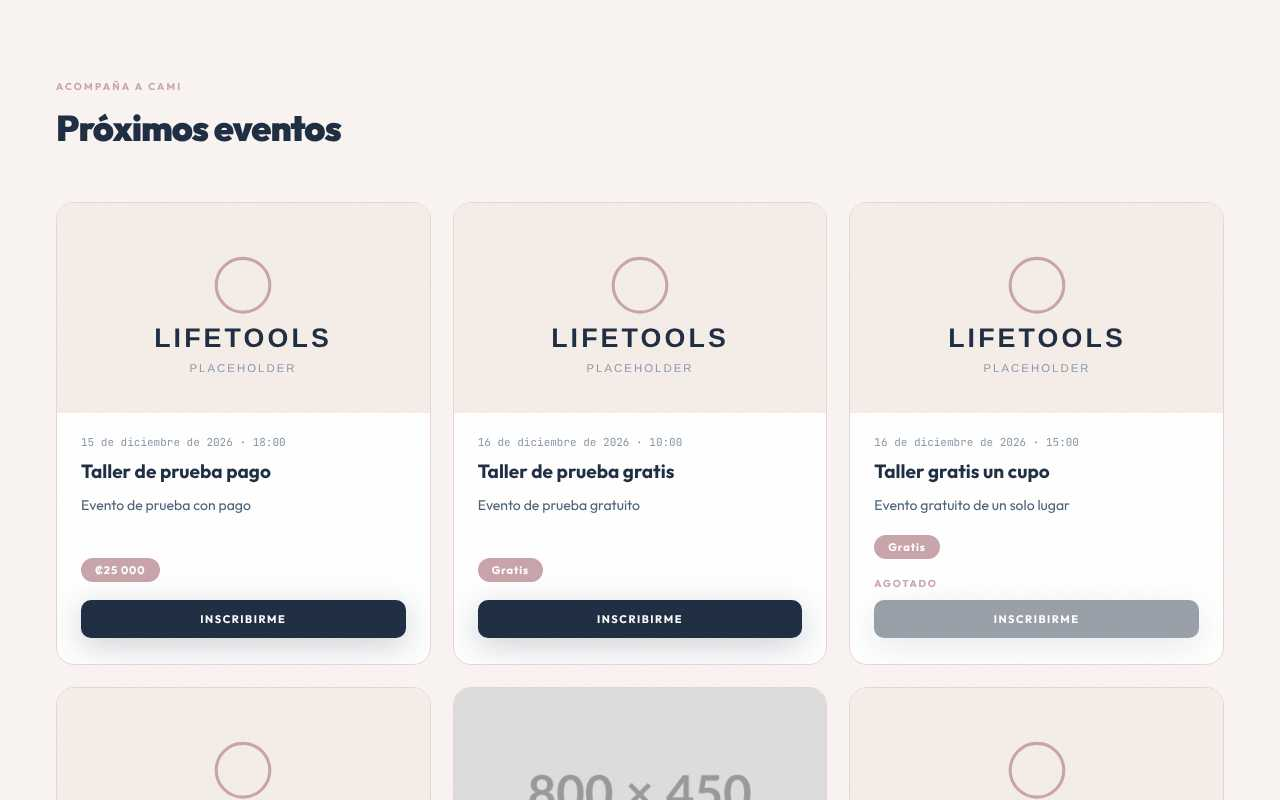
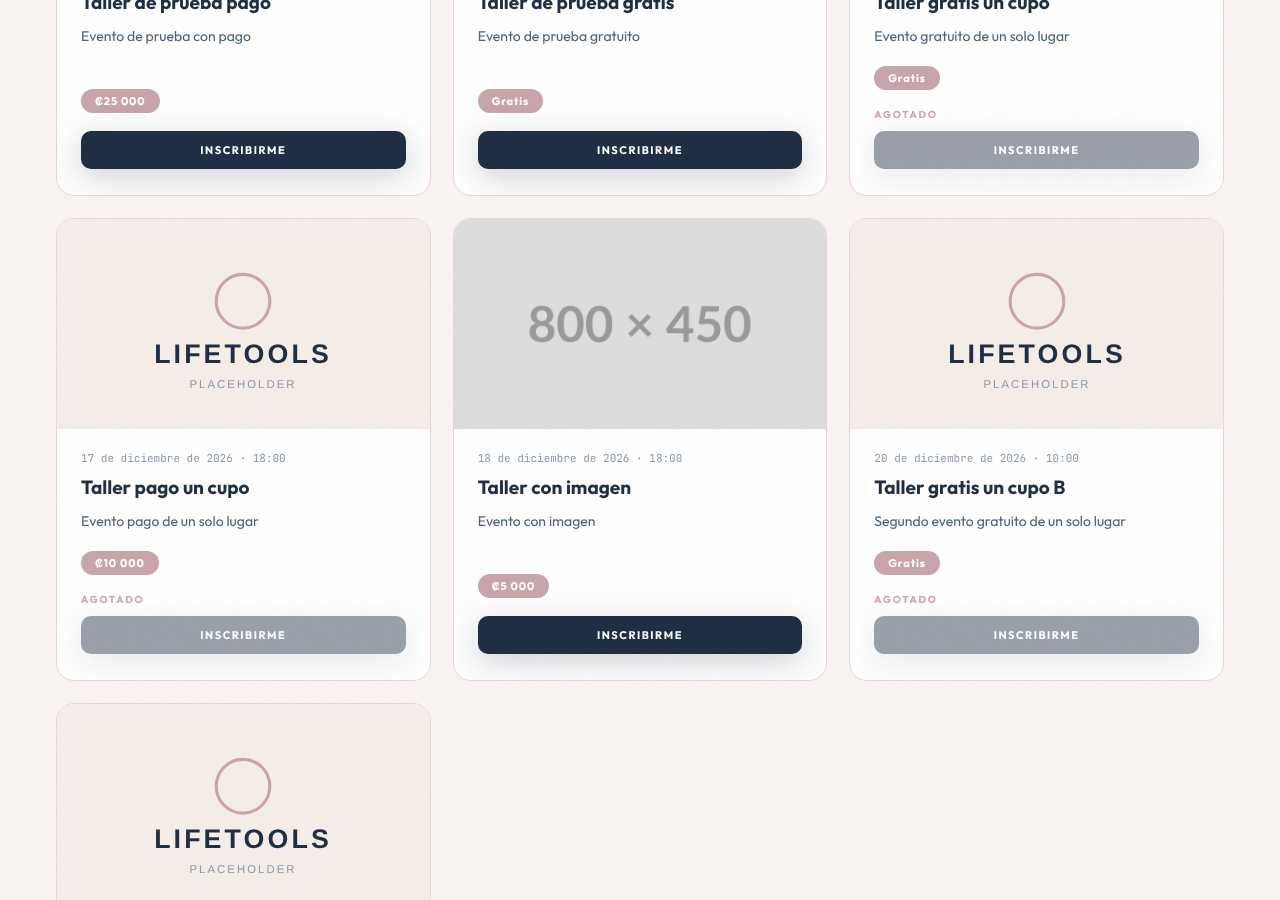
CMP-033: re-shoot the art event evidence, note the two flagged screenshots
Claude-Session: https://claude.ai/code/session_01A3YKwNKLnjWxTzKZ4UVZ6m

diff --git a/docs/sprints/SPRINT_02_VERIFICATION.md b/docs/sprints/SPRINT_02_VERIFICATION.md
@@ -34,7 +34,7 @@ Legend: **Pass**, **Fail**, **N/A** (cannot be exercised, with the reason), **Pe
 | AC | Case | Result | Evidence |
 |---|---|---|---|
 | 1 | Cards in start order with name, date, time (24 h `HH:mm`), description, price or "Gratis/Free", register button; ES and EN | Pass | `page-events-{es,en}-{1280,900,375}.jpg` |
-| 2 | Event without image shows the Lifetools logo; event with an image URL (TART) shows the art | Pass | `page-events-*` (logo), `page-events-art-{es-1280,en-375}.jpg` (art) |
+| 2 | Event without image shows the Lifetools logo; event with an image URL (TART) shows the art | Pass | `page-events-*` (logo), `page-events-art-{es,en}-1280.jpg` (art) |
 | 3 | Closed (registration closes 12 h before start) and sold-out events: button disabled, "Inscripciones cerradas" / "Agotado" (EN "Registration closed" / "Sold out") | Pass | cards of the closed event, the one-seat free event and the one-seat paid event |
 | 4 | EN site shows English name and description: automatic translation, and `nameEn`/`descriptionEn` override (TART shows the override) | Pass | `events?lang=en` listing, EN screenshots |
 | 5 | Backend down (requests aborted): no section, no ticker, page renders | Pass | scripted check |
@@ -211,9 +211,11 @@ Stored file type, check result and emails: Pending (owner).
 
 ## 4. Evidence index
 All files are in `docs/sprints/evidence/sprint-02/` (JPEG, masked, under 5 MB in total):
-`page-*` (layout and regression; `page-events-art-*` shows the event with an image), `form-*` (form states; the SINPE blocks show test values and registration references are masked), `mobile-iphone13-heic-*` (test values shown, reference masked),
+`page-*` (layout and regression; `page-events-art-*` shows the event with an image, in EN with the `nameEn`/`descriptionEn` override), `form-*` (form states; the SINPE blocks show test values and registration references are masked), `mobile-iphone13-heic-*` (test values shown, reference masked),
 `us005-ac2-featured-expanded-es.jpg`. Sheet, Drive and inbox screenshots from the owner are added
 here when received. 
+
+Note: `form-es-1280-flagged-event-unpublished.jpg` and `form-es-1280-flagged-coupon-changed.jpg` look the same on purpose: the visitor sees the same message whichever flag the backend sets (event closed/unpublished, or coupon changed); the difference is only in the sheet row.
 
 ## 5. Failures, observations and proposed tickets
 | # | Item | Class | Proposal |
